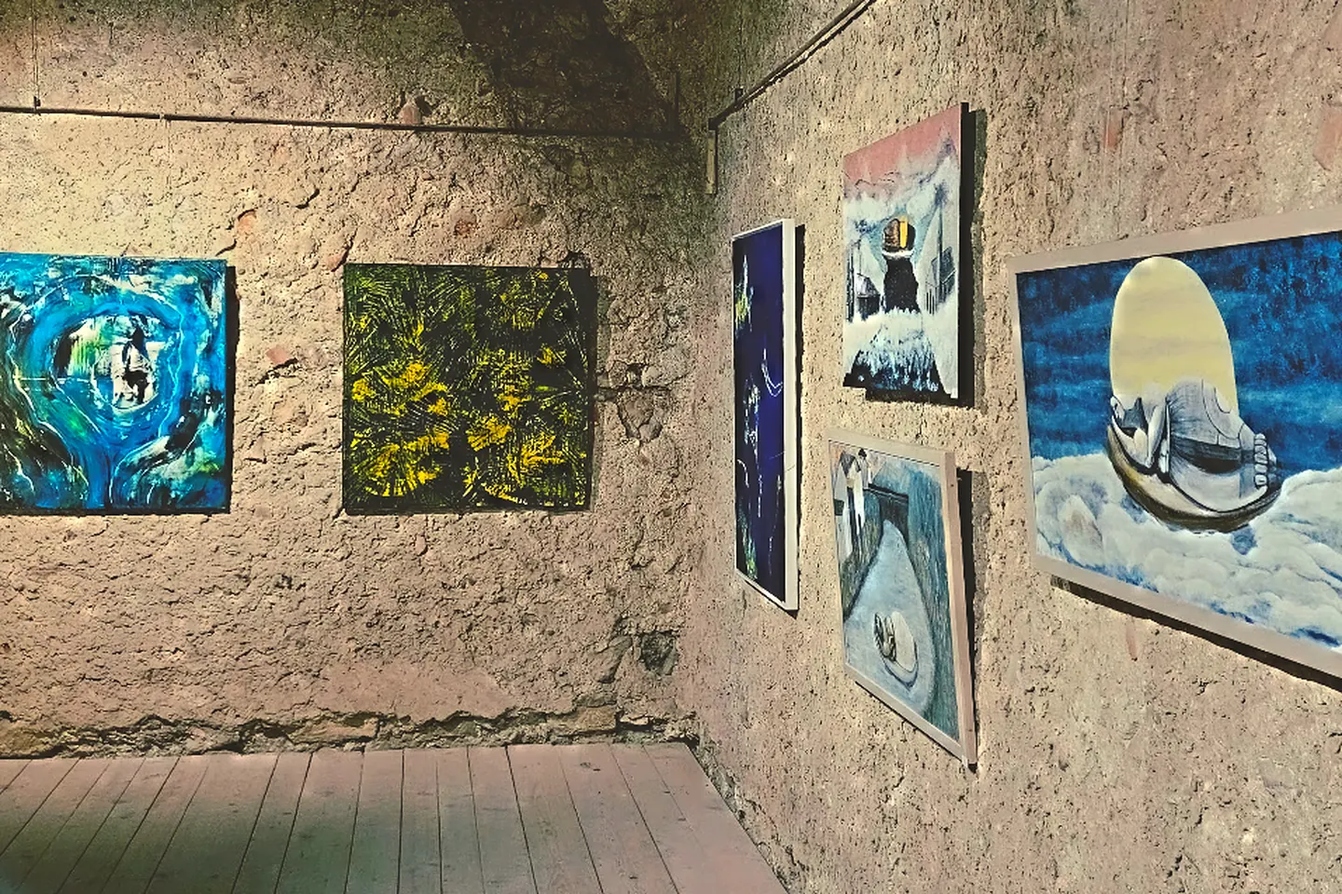
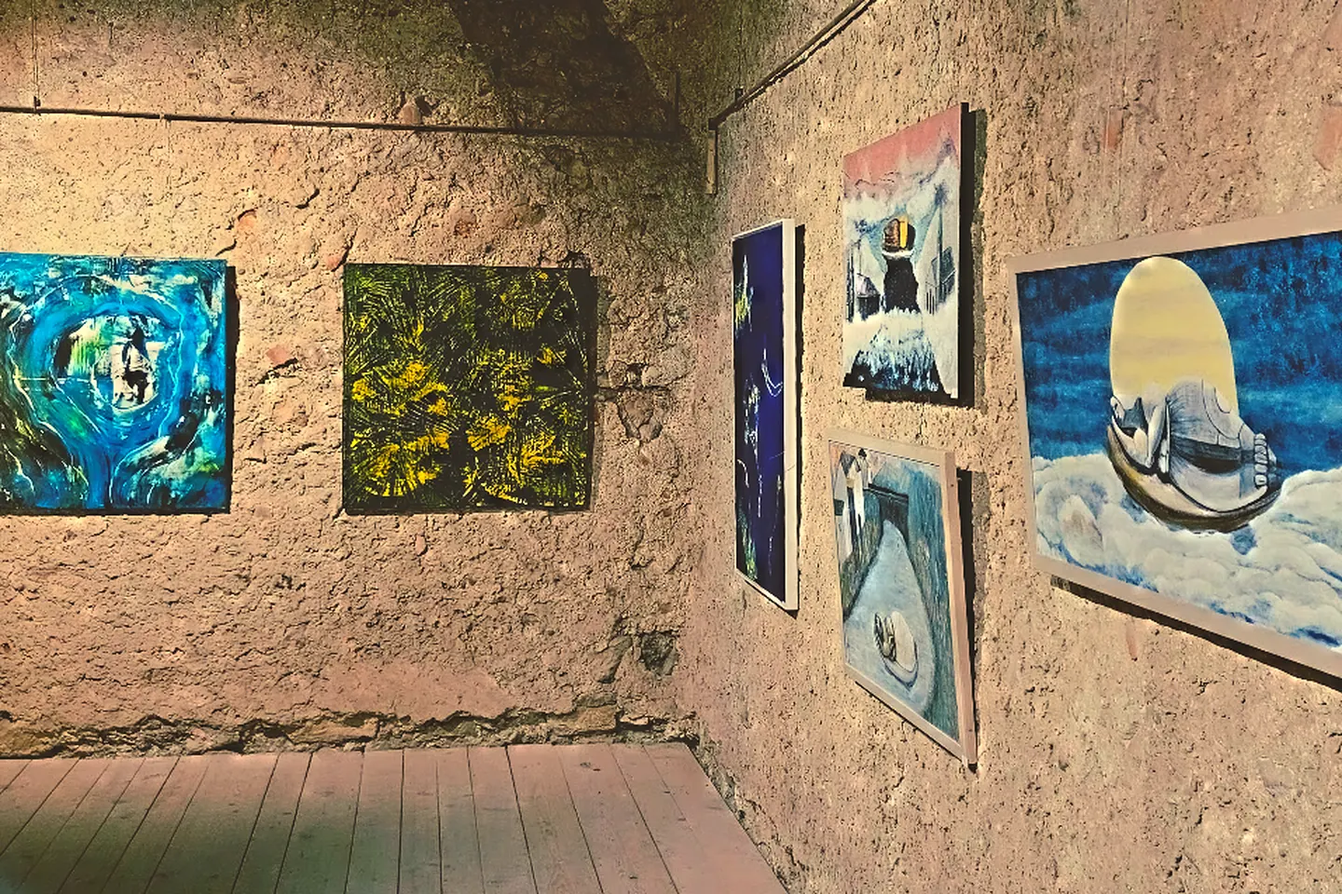
Gamma: Baum warm ohne fallende Blätter, Säulen im Bildrahmen, Foto wärmer
- Baum: Blätter Tannen- über Moosgrün bis Ocker, Blüten Bordeaux bis
  Altrosa (Farben als sRGB angegeben, die Szene rechnet linear), keine
  fallenden Blütenblätter mehr, kleineres Podest
- Giacometti dreht schneller (gut eine halbe Minute pro Umdrehung)
- Kunst flach: nach dem Wechsel aus dem Raum stehen im Bildrahmen noch
  kurz die Säulen (von oben, gleiches Gitter, Deckel in Fotofarbe), dann
  wachsen sie zum Foto zusammen und der Hover beginnt
- Foto wärmer (Rot hinauf, Blau hinunter) und satter, Bilder ?v=4

Claude-Session: https://claude.ai/code/session_01EXrTH1PViZXXwjyHDQJQPg

diff --git a/tools/gamma/index.src.html b/tools/gamma/index.src.html
@@ -1506,11 +1506,12 @@ function figurenBauen(g) {
   };
   /* Auf der obersten Terrasse ein Baum im Raum (Christian, 30. Oktober 2026: dreidimensional, bewegt, farbig blühend; dann «nicht drehen, sondern
      wie im Wind bewegen, dunklere, wärmere Farbtöne»). Der Wind kommt in Böen von einer Seite: der ganze Baum neigt sich, je höher, desto mehr,
-     die Zweige flattern, je weiter aussen, desto mehr. An jeder Spitze zwei Blätter in warmem, dunklem Grün, daneben öffnet sich eine Blüte
-     in Himbeer bis Altrosa, welkt, und ein Blütenblatt fällt langsam auf die Terrassen */
+     die Zweige flattern, je weiter aussen, desto mehr. An jeder Spitze zwei Blätter von Tannen- über Moosgrün bis Ocker, daneben öffnet sich
+     eine Blüte in Bordeaux bis Altrosa und welkt wieder; nichts fällt herab («keine fallenden Pixel») */
   const terrasse = () => {
-    hell = .45; quader(0, 0, 0, 1.3, .1, .7); quader(.12, .1, -.06, 1, .1, .56); quader(.26, .2, -.12, .7, .1, .44);
-    const dreh = new THREE.Group(); gruppeBei([.62, .3, -.34]).add(dreh);
+    // drei flache Stufen unter dem Baum, kleiner als zuerst (Christian, 30. Oktober 2026), mittig unter dem Stamm
+    hell = .45; quader(.17, 0, -.09, .9, .07, .5); quader(.29, .07, -.15, .66, .07, .38); quader(.4, .14, -.205, .44, .07, .27);
+    const dreh = new THREE.Group(); gruppeBei([.62, .21, -.34]).add(dreh);
     const ap = [], ag = [], spitzen = [], d = new THREE.Vector3(), u = new THREE.Vector3(), w = new THREE.Vector3();
     const wachsen = (p, r, l, n, tief) => {
       const e = p.clone().addScaledVector(r, l); ap.push(p.x, p.y, p.z, e.x, e.y, e.z); ag.push(tief / 7, (tief + 1) / 7);
@@ -1536,45 +1537,42 @@ vec3 wind(vec3 p, float w) {
     const aeste = new THREE.LineSegments(ag3, new THREE.ShaderMaterial({ uniforms: uni, transparent: true, depthWrite: false,
       vertexShader: `attribute float gewicht; varying float vw; ${WIND}
 void main() { vw = gewicht; gl_Position = projectionMatrix * modelViewMatrix * vec4(wind(position, gewicht), 1.); }`,
-      fragmentShader: "uniform float a; varying float vw; void main() { gl_FragColor = vec4(mix(vec3(.5, .4, .3), vec3(.36, .27, .2), vw), a); }" }));
-    // Je Spitze eine Blüte (art.y 0), ein Blütenblatt, das fällt, wenn sie welkt (art.y 1), und zwei grüne Blätter etwas daneben (art.y 2);
-    // art.x verschiebt den Kreislauf von elf Sekunden und wählt den Farbton
-    const n = spitzen.length, bp = new Float32Array(n * 12), ba = new Float32Array(n * 8), neben = p => p.clone().add(new THREE.Vector3(zufall() - .5, zufall() - .5, zufall() - .5).multiplyScalar(.09));
+      fragmentShader: "uniform float a; varying float vw; void main() { gl_FragColor = vec4(pow(mix(vec3(.48, .37, .28), vec3(.35, .26, .2), vw), vec3(2.2)), a); }" }));
+    // Je Spitze eine Blüte (art.y 0) und zwei Blätter etwas daneben (art.y 2); art.x verschiebt den Kreislauf von elf Sekunden und wählt den Farbton
+    const n = spitzen.length, bp = new Float32Array(n * 9), ba = new Float32Array(n * 6), neben = p => p.clone().add(new THREE.Vector3(zufall() - .5, zufall() - .5, zufall() - .5).multiplyScalar(.09));
     spitzen.forEach((p, i) => {
-      const ph = zufall();
-      bp.set(p.toArray(), i * 3); bp.set(p.toArray(), (n + i) * 3); bp.set(neben(p).toArray(), (2 * n + i) * 3); bp.set(neben(p).toArray(), (3 * n + i) * 3);
-      ba.set([ph, 0], i * 2); ba.set([ph, 1], (n + i) * 2); ba.set([zufall(), 2], (2 * n + i) * 2); ba.set([zufall(), 2], (3 * n + i) * 2);
+      bp.set(p.toArray(), i * 3); bp.set(neben(p).toArray(), (n + i) * 3); bp.set(neben(p).toArray(), (2 * n + i) * 3);
+      ba.set([zufall(), 0], i * 2); ba.set([zufall(), 2], (n + i) * 2); ba.set([zufall(), 2], (2 * n + i) * 2);
     });
     const bg = new THREE.BufferGeometry(); bg.setAttribute("position", new THREE.Float32BufferAttribute(bp, 3)); bg.setAttribute("art", new THREE.Float32BufferAttribute(ba, 2));
     const blueten = new THREE.Points(bg, new THREE.ShaderMaterial({ uniforms: uni, transparent: true, depthWrite: false,
-      vertexShader: `attribute vec2 art; uniform float hoehe; varying float vu, vf, vd, vk; ${WIND}
+      vertexShader: `attribute vec2 art; uniform float hoehe; varying float vu, vf, vk; ${WIND}
 void main() {
-  float u = fract(zeit / 11. + art.x), s; vec3 p = wind(position, 1.); vu = u; vf = art.y; vd = 1.; vk = fract(art.x * 7.31);
+  float u = fract(zeit / 11. + art.x), s; vec3 p = wind(position, 1.); vu = u; vf = art.y; vk = fract(art.x * 7.31);
   if (art.y > 1.5) s = .08 * (.88 + .12 * sin(zeit * .8 + art.x * 30.));   // Blatt
-  else if (art.y < .5) s = .075 * smoothstep(.04, .3, u) * (1. - smoothstep(.6, .76, u));   // Knospe, offen, welk
-  else { float f = clamp((u - .66) / .34, 0., 1.); p.y -= (position.y + .12) * f * f; p.x += sin(f * 6. + art.x * 20.) * .08 * f; p.z += cos(f * 5. + art.x * 13.) * .06 * f;
-    s = .035 * step(.66, u); vd = 1. - smoothstep(.8, 1., f); }
+  else s = .075 * smoothstep(.04, .3, u) * (1. - smoothstep(.72, .9, u));   // Knospe, offen, welk
   vec4 mv = modelViewMatrix * vec4(p, 1.); gl_PointSize = min(s * projectionMatrix[1][1] * hoehe / -mv.z, 48.); gl_Position = projectionMatrix * mv;
 }`,
-      fragmentShader: `uniform float a; varying float vu, vf, vd, vk;
+      fragmentShader: `uniform float a; varying float vu, vf, vk;
 void main() {
   vec2 c = gl_PointCoord - .5; float r = length(c), al; vec3 col;
   if (vf > 1.5) {
-    // Blatt: eine schmale Spitzellipse, je nach vk anders gedreht, von dunklem Moos- bis Olivgrün, mit hellerer Mittelrippe
+    // Blatt: eine schmale Spitzellipse, je nach vk anders gedreht, von Tannen- über Moosgrün bis Ocker, mit hellerer Mittelrippe
     float w = vk * 6.283; vec2 q = mat2(cos(w), -sin(w), sin(w), cos(w)) * c;
     al = smoothstep(.3, .24, length(q * vec2(1., 2.3)) + .25 * abs(q.x)); if (al < .01) discard;
-    col = mix(vec3(.17, .3, .11), vec3(.44, .5, .17), vk); col = mix(col, col + .1, smoothstep(.04, 0., abs(q.y)));
+    col = mix(mix(vec3(.12, .3, .23), vec3(.29, .35, .14), smoothstep(.2, .75, vk)), vec3(.63, .48, .16), smoothstep(.8, 1., vk));
+    col = mix(col, col + .08, smoothstep(.04, 0., abs(q.y)));
   } else {
-    float rand = vf > .5 ? .3 : .3 + .16 * cos(5. * atan(c.y, c.x));   // fünf Blütenblätter, das fallende Blatt rund
-    al = smoothstep(rand, rand - .1, r) * vd; if (al < .01) discard;
-    // von dunklem Himbeer über warmes Rosa bis Altrosa, zum Rand der Blüte etwas heller, in der Mitte ein Punkt in Bernstein
-    vec3 magenta = vec3(.6, .05, .28), rosa = vec3(.8, .24, .38), hell = vec3(.88, .5, .5);
-    col = mix(mix(magenta, rosa, smoothstep(0., .6, vk)), hell, smoothstep(.75, 1., vk));
-    col = mix(col, hell, smoothstep(.12, .32, r) * .2);
-    if (vf < .5) col = mix(vec3(.88, .58, .2), col, smoothstep(.03, .09, r));
-    col = mix(col, magenta, vf < .5 ? (1. - smoothstep(.04, .3, vu)) * .6 : 0.);   // die Knospe dunkler
+    float rand = .3 + .16 * cos(5. * atan(c.y, c.x));   // fünf Blütenblätter
+    al = smoothstep(rand, rand - .1, r); if (al < .01) discard;
+    // von Bordeaux über Himbeer bis warmes Altrosa, zum Rand der Blüte etwas heller, in der Mitte ein Punkt in Bernstein
+    vec3 bordeaux = vec3(.43, .1, .17), himbeer = vec3(.61, .14, .25), alt = vec3(.76, .48, .42);
+    col = mix(mix(bordeaux, himbeer, smoothstep(0., .6, vk)), alt, smoothstep(.8, 1., vk));
+    col = mix(col, alt, smoothstep(.12, .32, r) * .18);
+    col = mix(vec3(.82, .54, .16), col, smoothstep(.03, .09, r));
+    col = mix(col, bordeaux, (1. - smoothstep(.04, .3, vu)) * .6);   // die Knospe dunkler
   }
-  gl_FragColor = vec4(col * .92, al * a);
+  gl_FragColor = vec4(pow(col, vec3(2.2)), al * a);   // Farben oben als sRGB, die Szene rechnet linear
 }` }));
     dreh.add(aeste, blueten);
     const groesse = new THREE.Vector2();
@@ -1688,7 +1686,7 @@ void main() {
     glied([[.04, .95, 0], [.05, 1.01, 0], [.062, 1.08, 0], [.068, 1.13, 0]], .018, .026);
     const geo = new THREE.BufferGeometry(); geo.setAttribute("position", new THREE.Float32BufferAttribute(P, 3)); geo.setAttribute("color", new THREE.Float32BufferAttribute(C, 3));
     dreh.add(new THREE.LineSegments(geo, new THREE.LineBasicMaterial({ vertexColors: true, transparent: true, depthWrite: false })));
-    bahn.flackern.push(sek => { dreh.rotation.y = sek * .12; });   // eine Umdrehung in knapp einer Minute
+    bahn.flackern.push(sek => { dreh.rotation.y = sek * .2; });   // eine Umdrehung in gut einer halben Minute
   };
   /* Angebot: ein Tisch mit Stühlen, zwei Wände, Kisten mit Massen */
   const tisch = () => {
@@ -2950,7 +2948,7 @@ if (web && "IntersectionObserver" in window) new IntersectionObserver(e => { if 
    Eine einzige weiche Fläche zeigt das Foto: in der Mitte ganz, zum Rand hin verläuft es und wird blasser, vom Rauschen leicht unregelmässig.
    Flach folgt sie dem Zeiger oder dem Finger; sonst wandert sie langsam. Im Raum wandert sie auf derselben Bahn über die Skizze auf dem Band
    und hebt das Foto als sanften Hügel an; beim Wechsel in die Fläche steht sie, wo sie im Raum war */
-const KUNST_FOTO = "{{BILD}}gamma/bilder/kunst-foto.webp?v=3", KUNST_LINIEN = "{{BILD}}gamma/bilder/kunst-linien.webp?v=3", KUNST_ZUG = 3.6;
+const KUNST_FOTO = "{{BILD}}gamma/bilder/kunst-foto.webp?v=4", KUNST_LINIEN = "{{BILD}}gamma/bilder/kunst-linien.webp?v=4", KUNST_ZUG = 3.6;
 let kunstBilder = null;
 function kunstLaden() {
   // Fehlt ein Bild (etwa weil die Seite während des Hochladens geöffnet wurde), wird es bis zu dreimal neu geholt; wer auf «load» wartet, bekommt es dann trotzdem
@@ -3000,7 +2998,7 @@ const kunst = (() => {
   return { k, bild, cv: bild.querySelector("canvas"), buehne: k.querySelector(".buehne"), hinweis: k.querySelector(".kunst-hinweis"), fokus: parseFloat(bild.dataset.fokus) || .5,
     format: parseFloat(bild.dataset.format) || 1, rahmen: (bild.dataset.rahmen || ".5 .5 .1 .1").split(" ").map(Number),
     felder: [...k.querySelectorAll(".feld")], inhalte: [...k.querySelectorAll(".fi")], gl: null, sichtbar: false, t0: null, raumZug: 0, zug: 0, licht: null, zeiger: null, tipp: null,
-    wechselAb: 0, rahmenAb: 0, rahmenSeit: 0, rm: 0 };
+    wechselAb: 0, rahmenAb: 0, rahmenSeit: 0, rm: 0, sl: 0 };
 })();
 if (kunst) {
   kunst.stopp = () => {}; felderVerbinden(kunst);
@@ -3025,13 +3023,32 @@ function kunstGL() {
   };
   // Bild: Skizze, darüber das Foto, so weit die Spur reicht; ihr Rand franst langsam ziehend aus. Die Sättigung ist frisch hoch, alt gering, und atmet
   const pr = programm(`precision highp float; varying vec2 v;
-uniform sampler2D foto, linien, maske; uniform vec4 aus; uniform vec2 seite; uniform float zeit, zug; uniform vec3 grund, tinte;
+uniform sampler2D foto, linien, maske; uniform vec4 aus; uniform vec2 seite; uniform float zeit, zug, sl; uniform vec3 grund, tinte;
 ${KUNST_GLSL}
 void main() {
   vec2 q = v * seite; vec4 m = texture2D(maske, v); float r = kRahmen(v);
   float auf = mix(smoothstep(.2, .62, m.r + (kF(q * 6. + vec2(zeit * .05, -zeit * .04)) - .47) * .5), r, rm);
   float satt = mix(clamp(.12 + 1.1 * m.g + .6 * (kF(q * 1.4 - zeit * .06) - .47), 0., 1.18), 1., rm * r);
-  gl_FragColor = vec4(kFarbe(foto, linien, aus.xy + v * aus.zw, q, auf, satt, zug, zeit, grund, tinte), 1.);
+  vec3 c = kFarbe(foto, linien, aus.xy + v * aus.zw, q, auf, satt, zug, zeit, grund, tinte);
+  if (sl > .001 && r * rm > .001) {
+    // Eben aus dem Raum: im Bildrahmen stehen noch kurz die Säulen, von oben gesehen, im selben Gitter wie im Raum (42 je Reihe, Reihen versetzt).
+    // Jeder Deckel in der Farbe des Fotos an seiner Mitte, gewölbt, mit Glanz, dazwischen Schwarz; dann wachsen die Deckel zusammen und es bleibt das Foto
+    float SP = 42., RE = max(4., floor(SP / seite.x / .866 + .5)), d = 9.; vec2 z = v;
+    for (int j = -1; j <= 1; j++) {
+      float rr = floor(v.y * RE) + float(j), off = mod(rr, 2.) > .5 ? .75 : .25;
+      vec2 mm = vec2((floor(v.x * SP - off + .5) + off) / SP, (rr + .5) / RE);
+      float dd = length((v - mm) * seite); if (dd < d) { d = dd; z = mm; }
+    }
+    vec2 o = (v - z) * seite / (seite.x / SP * mix(.62, .46, sl));
+    float scheibe = smoothstep(1., .88, length(o)), fl = smoothstep(.3, .72, kFluss(z * seite, zeit));
+    vec3 fc = texture2D(foto, aus.xy + z * aus.zw).rgb, fp = texture2D(foto, aus.xy + v * aus.zw).rgb;
+    vec3 n = normalize(vec3(o * .9, 1.)), L = normalize(vec3(-.35, -.45, 1.));
+    float dif = max(dot(n, L), 0.), glanz = pow(max(dot(reflect(vec3(0., 0., -1.), n), L), 0.), 40.) * .55;
+    vec3 s = mix(fp, fc * (.62 + .38 * dif) * (.8 + .2 * fl) + glanz, sl);
+    s = mix(vec3(.02), s, mix(1., scheibe, sl));
+    c = mix(c, s, r * rm);
+  }
+  gl_FragColor = vec4(c, 1.);
 }`);
   // Spur: r wie weit das Foto steht (verblasst in einigen Sekunden), g wie frisch (klingt rasch ab). Sie wird langsam entlang eines Wirbelfelds
   // verschoben und verläuft ein wenig: so kriecht sie. Das Licht (Zeiger, Tippen oder ruhige Bahn) legt jedes Bild neu nach; beim Wechsel aus dem Raum der Bildrahmen
@@ -3052,7 +3069,7 @@ void main() {
   gl.useProgram(pr);
   const puffer = gl.createBuffer(); gl.bindBuffer(gl.ARRAY_BUFFER, puffer); gl.bufferData(gl.ARRAY_BUFFER, new Float32Array([-1, -1, 1, -1, -1, 1, 1, 1]), gl.STATIC_DRAW);
   gl.enableVertexAttribArray(0); gl.vertexAttribPointer(0, 2, gl.FLOAT, false, 0, 0);
-  const U = {}; ["foto", "linien", "maske", "aus", "seite", "zeit", "zug", "grund", "tinte", "rahmen", "rm"].forEach(n => { U[n] = gl.getUniformLocation(pr, n); });
+  const U = {}; ["foto", "linien", "maske", "aus", "seite", "zeit", "zug", "grund", "tinte", "rahmen", "rm", "sl"].forEach(n => { U[n] = gl.getUniformLocation(pr, n); });
   const US = {}; ["vor", "px", "seite", "licht", "zeit", "k", "rahmen", "rm"].forEach(n => { US[n] = gl.getUniformLocation(prS, n); });
   const textur = (einheit, roh) => {
     const t = gl.createTexture(); gl.activeTexture(gl.TEXTURE0 + einheit); gl.bindTexture(gl.TEXTURE_2D, t);
@@ -3107,16 +3124,17 @@ function kunstLaufBild(zeit, dt) {
     K.t0 = zeit - (ruhig ? KUNST_ZUG + 9 : K.raumZug * KUNST_ZUG) * 1000;
     K.licht = [...kunstLicht(zeit / 1000), K.raumZug >= 1 ? 1 : 0];
   }
-  // Eben aus dem Raum gewechselt: das Foto steht zuerst genau im Bildrahmen, nach einer halben Sekunde löst sich der Rahmen in die weiche Fläche auf, die weiterwandert
+  // Eben aus dem Raum gewechselt: im Bildrahmen stehen zuerst noch die Säulen (Christian, 30. Oktober 2026: den Effekt in der Fläche kurz fortsetzen),
+  // nach 1,2 s wachsen sie zum Foto zusammen, ab 2,3 s löst sich der Rahmen in die weiche Fläche auf, die weiterwandert
   if (K.rahmenAb) { K.rahmenAb = 0; K.rahmenSeit = zeit; K.rm = 1; K.licht = kunstRahmenLicht(kunstRahmen(kunstAusschnitt(r.width / r.height, K.fokus, K.format)), r.width / r.height); }
   const seitRahmen = K.rahmenSeit ? (zeit - K.rahmenSeit) / 1000 : 99;
-  K.rm = 1 - eio(klemm((seitRahmen - .5) / 1.4));
+  K.sl = 1 - eio(klemm((seitRahmen - 1.2) / .9)); K.rm = 1 - eio(klemm((seitRahmen - 2.3) / 1.4));
   const T = (zeit - K.t0) / 1000, L = K.licht, tippt = K.tipp && zeit - K.tipp.t < 4500;
   // Ziel der Fläche: der Zeiger, sonst die Stelle, die getippt wurde, sonst ihre ruhige Bahn. Solange die Skizze entsteht, ist sie aus
   const ziel = K.zeiger ? [K.zeiger.x, K.zeiger.y, .24] : tippt ? [K.tipp.x, K.tipp.y, .32] : kunstLicht(zeit / 1000);
-  const an = ruhig ? (K.zeiger || tippt ? 1 : 0) : Math.max(weich(KUNST_ZUG - .6, KUNST_ZUG + 1.2, T), seitRahmen < 3 ? 1 : 0);
+  const an = ruhig ? (K.zeiger || tippt ? 1 : 0) : Math.max(weich(KUNST_ZUG - .6, KUNST_ZUG + 1.2, T), seitRahmen < 3.8 ? 1 : 0);
   // kriechend: die Fläche folgt dem Zeiger mit Verzug, die Spur dahinter bleibt einige Sekunden
-  const k = 1 - Math.exp(-dt * (K.zeiger ? 2.6 : tippt ? 1.6 : seitRahmen < .5 ? 0 : .9));
+  const k = 1 - Math.exp(-dt * (K.zeiger ? 2.6 : tippt ? 1.6 : seitRahmen < 2.3 ? 0 : .9));
   for (let i = 0; i < 3; i++) L[i] += (ziel[i] - L[i]) * k;
   L[3] += (an - L[3]) * (1 - Math.exp(-dt * 2.5));
   K.zug = ruhig ? 1.02 : 1.02 * eio(klemm(T / KUNST_ZUG));
@@ -3137,7 +3155,7 @@ function kunstZeichnen(zeit, dt = 1 / 60) {
   gl.uniform4f(U.aus, a[0], a[1], a[2], a[3]); gl.uniform2f(U.seite, w / h, 1);
   gl.uniform1f(U.zeit, z); gl.uniform1f(U.zug, K.zug || 0);
   gl.uniform3fv(U.grund, K.gl.grund); gl.uniform3f(U.tinte, 1, 1, 1);
-  gl.uniform4f(U.rahmen, R[0], R[1], R[2], R[3]); gl.uniform1f(U.rm, K.rm || 0);
+  gl.uniform4f(U.rahmen, R[0], R[1], R[2], R[3]); gl.uniform1f(U.rm, K.rm || 0); gl.uniform1f(U.sl, K.sl || 0);
   gl.drawArrays(gl.TRIANGLE_STRIP, 0, 4);
 }
 if ("IntersectionObserver" in window) {

diff --git a/gamma/index.html b/gamma/index.html
@@ -1515,11 +1515,12 @@ function figurenBauen(g) {
   };
   /* Auf der obersten Terrasse ein Baum im Raum (Christian, 30. Oktober 2026: dreidimensional, bewegt, farbig blühend; dann «nicht drehen, sondern
      wie im Wind bewegen, dunklere, wärmere Farbtöne»). Der Wind kommt in Böen von einer Seite: der ganze Baum neigt sich, je höher, desto mehr,
-     die Zweige flattern, je weiter aussen, desto mehr. An jeder Spitze zwei Blätter in warmem, dunklem Grün, daneben öffnet sich eine Blüte
-     in Himbeer bis Altrosa, welkt, und ein Blütenblatt fällt langsam auf die Terrassen */
+     die Zweige flattern, je weiter aussen, desto mehr. An jeder Spitze zwei Blätter von Tannen- über Moosgrün bis Ocker, daneben öffnet sich
+     eine Blüte in Bordeaux bis Altrosa und welkt wieder; nichts fällt herab («keine fallenden Pixel») */
   const terrasse = () => {
-    hell = .45; quader(0, 0, 0, 1.3, .1, .7); quader(.12, .1, -.06, 1, .1, .56); quader(.26, .2, -.12, .7, .1, .44);
-    const dreh = new THREE.Group(); gruppeBei([.62, .3, -.34]).add(dreh);
+    // drei flache Stufen unter dem Baum, kleiner als zuerst (Christian, 30. Oktober 2026), mittig unter dem Stamm
+    hell = .45; quader(.17, 0, -.09, .9, .07, .5); quader(.29, .07, -.15, .66, .07, .38); quader(.4, .14, -.205, .44, .07, .27);
+    const dreh = new THREE.Group(); gruppeBei([.62, .21, -.34]).add(dreh);
     const ap = [], ag = [], spitzen = [], d = new THREE.Vector3(), u = new THREE.Vector3(), w = new THREE.Vector3();
     const wachsen = (p, r, l, n, tief) => {
       const e = p.clone().addScaledVector(r, l); ap.push(p.x, p.y, p.z, e.x, e.y, e.z); ag.push(tief / 7, (tief + 1) / 7);
@@ -1545,45 +1546,42 @@ vec3 wind(vec3 p, float w) {
     const aeste = new THREE.LineSegments(ag3, new THREE.ShaderMaterial({ uniforms: uni, transparent: true, depthWrite: false,
       vertexShader: `attribute float gewicht; varying float vw; ${WIND}
 void main() { vw = gewicht; gl_Position = projectionMatrix * modelViewMatrix * vec4(wind(position, gewicht), 1.); }`,
-      fragmentShader: "uniform float a; varying float vw; void main() { gl_FragColor = vec4(mix(vec3(.5, .4, .3), vec3(.36, .27, .2), vw), a); }" }));
-    // Je Spitze eine Blüte (art.y 0), ein Blütenblatt, das fällt, wenn sie welkt (art.y 1), und zwei grüne Blätter etwas daneben (art.y 2);
-    // art.x verschiebt den Kreislauf von elf Sekunden und wählt den Farbton
-    const n = spitzen.length, bp = new Float32Array(n * 12), ba = new Float32Array(n * 8), neben = p => p.clone().add(new THREE.Vector3(zufall() - .5, zufall() - .5, zufall() - .5).multiplyScalar(.09));
+      fragmentShader: "uniform float a; varying float vw; void main() { gl_FragColor = vec4(pow(mix(vec3(.48, .37, .28), vec3(.35, .26, .2), vw), vec3(2.2)), a); }" }));
+    // Je Spitze eine Blüte (art.y 0) und zwei Blätter etwas daneben (art.y 2); art.x verschiebt den Kreislauf von elf Sekunden und wählt den Farbton
+    const n = spitzen.length, bp = new Float32Array(n * 9), ba = new Float32Array(n * 6), neben = p => p.clone().add(new THREE.Vector3(zufall() - .5, zufall() - .5, zufall() - .5).multiplyScalar(.09));
     spitzen.forEach((p, i) => {
-      const ph = zufall();
-      bp.set(p.toArray(), i * 3); bp.set(p.toArray(), (n + i) * 3); bp.set(neben(p).toArray(), (2 * n + i) * 3); bp.set(neben(p).toArray(), (3 * n + i) * 3);
-      ba.set([ph, 0], i * 2); ba.set([ph, 1], (n + i) * 2); ba.set([zufall(), 2], (2 * n + i) * 2); ba.set([zufall(), 2], (3 * n + i) * 2);
+      bp.set(p.toArray(), i * 3); bp.set(neben(p).toArray(), (n + i) * 3); bp.set(neben(p).toArray(), (2 * n + i) * 3);
+      ba.set([zufall(), 0], i * 2); ba.set([zufall(), 2], (n + i) * 2); ba.set([zufall(), 2], (2 * n + i) * 2);
     });
     const bg = new THREE.BufferGeometry(); bg.setAttribute("position", new THREE.Float32BufferAttribute(bp, 3)); bg.setAttribute("art", new THREE.Float32BufferAttribute(ba, 2));
     const blueten = new THREE.Points(bg, new THREE.ShaderMaterial({ uniforms: uni, transparent: true, depthWrite: false,
-      vertexShader: `attribute vec2 art; uniform float hoehe; varying float vu, vf, vd, vk; ${WIND}
+      vertexShader: `attribute vec2 art; uniform float hoehe; varying float vu, vf, vk; ${WIND}
 void main() {
-  float u = fract(zeit / 11. + art.x), s; vec3 p = wind(position, 1.); vu = u; vf = art.y; vd = 1.; vk = fract(art.x * 7.31);
+  float u = fract(zeit / 11. + art.x), s; vec3 p = wind(position, 1.); vu = u; vf = art.y; vk = fract(art.x * 7.31);
   if (art.y > 1.5) s = .08 * (.88 + .12 * sin(zeit * .8 + art.x * 30.));   // Blatt
-  else if (art.y < .5) s = .075 * smoothstep(.04, .3, u) * (1. - smoothstep(.6, .76, u));   // Knospe, offen, welk
-  else { float f = clamp((u - .66) / .34, 0., 1.); p.y -= (position.y + .12) * f * f; p.x += sin(f * 6. + art.x * 20.) * .08 * f; p.z += cos(f * 5. + art.x * 13.) * .06 * f;
-    s = .035 * step(.66, u); vd = 1. - smoothstep(.8, 1., f); }
+  else s = .075 * smoothstep(.04, .3, u) * (1. - smoothstep(.72, .9, u));   // Knospe, offen, welk
   vec4 mv = modelViewMatrix * vec4(p, 1.); gl_PointSize = min(s * projectionMatrix[1][1] * hoehe / -mv.z, 48.); gl_Position = projectionMatrix * mv;
 }`,
-      fragmentShader: `uniform float a; varying float vu, vf, vd, vk;
+      fragmentShader: `uniform float a; varying float vu, vf, vk;
 void main() {
   vec2 c = gl_PointCoord - .5; float r = length(c), al; vec3 col;
   if (vf > 1.5) {
-    // Blatt: eine schmale Spitzellipse, je nach vk anders gedreht, von dunklem Moos- bis Olivgrün, mit hellerer Mittelrippe
+    // Blatt: eine schmale Spitzellipse, je nach vk anders gedreht, von Tannen- über Moosgrün bis Ocker, mit hellerer Mittelrippe
     float w = vk * 6.283; vec2 q = mat2(cos(w), -sin(w), sin(w), cos(w)) * c;
     al = smoothstep(.3, .24, length(q * vec2(1., 2.3)) + .25 * abs(q.x)); if (al < .01) discard;
-    col = mix(vec3(.17, .3, .11), vec3(.44, .5, .17), vk); col = mix(col, col + .1, smoothstep(.04, 0., abs(q.y)));
+    col = mix(mix(vec3(.12, .3, .23), vec3(.29, .35, .14), smoothstep(.2, .75, vk)), vec3(.63, .48, .16), smoothstep(.8, 1., vk));
+    col = mix(col, col + .08, smoothstep(.04, 0., abs(q.y)));
   } else {
-    float rand = vf > .5 ? .3 : .3 + .16 * cos(5. * atan(c.y, c.x));   // fünf Blütenblätter, das fallende Blatt rund
-    al = smoothstep(rand, rand - .1, r) * vd; if (al < .01) discard;
-    // von dunklem Himbeer über warmes Rosa bis Altrosa, zum Rand der Blüte etwas heller, in der Mitte ein Punkt in Bernstein
-    vec3 magenta = vec3(.6, .05, .28), rosa = vec3(.8, .24, .38), hell = vec3(.88, .5, .5);
-    col = mix(mix(magenta, rosa, smoothstep(0., .6, vk)), hell, smoothstep(.75, 1., vk));
-    col = mix(col, hell, smoothstep(.12, .32, r) * .2);
-    if (vf < .5) col = mix(vec3(.88, .58, .2), col, smoothstep(.03, .09, r));
-    col = mix(col, magenta, vf < .5 ? (1. - smoothstep(.04, .3, vu)) * .6 : 0.);   // die Knospe dunkler
+    float rand = .3 + .16 * cos(5. * atan(c.y, c.x));   // fünf Blütenblätter
+    al = smoothstep(rand, rand - .1, r); if (al < .01) discard;
+    // von Bordeaux über Himbeer bis warmes Altrosa, zum Rand der Blüte etwas heller, in der Mitte ein Punkt in Bernstein
+    vec3 bordeaux = vec3(.43, .1, .17), himbeer = vec3(.61, .14, .25), alt = vec3(.76, .48, .42);
+    col = mix(mix(bordeaux, himbeer, smoothstep(0., .6, vk)), alt, smoothstep(.8, 1., vk));
+    col = mix(col, alt, smoothstep(.12, .32, r) * .18);
+    col = mix(vec3(.82, .54, .16), col, smoothstep(.03, .09, r));
+    col = mix(col, bordeaux, (1. - smoothstep(.04, .3, vu)) * .6);   // die Knospe dunkler
   }
-  gl_FragColor = vec4(col * .92, al * a);
+  gl_FragColor = vec4(pow(col, vec3(2.2)), al * a);   // Farben oben als sRGB, die Szene rechnet linear
 }` }));
     dreh.add(aeste, blueten);
     const groesse = new THREE.Vector2();
@@ -1697,7 +1695,7 @@ void main() {
     glied([[.04, .95, 0], [.05, 1.01, 0], [.062, 1.08, 0], [.068, 1.13, 0]], .018, .026);
     const geo = new THREE.BufferGeometry(); geo.setAttribute("position", new THREE.Float32BufferAttribute(P, 3)); geo.setAttribute("color", new THREE.Float32BufferAttribute(C, 3));
     dreh.add(new THREE.LineSegments(geo, new THREE.LineBasicMaterial({ vertexColors: true, transparent: true, depthWrite: false })));
-    bahn.flackern.push(sek => { dreh.rotation.y = sek * .12; });   // eine Umdrehung in knapp einer Minute
+    bahn.flackern.push(sek => { dreh.rotation.y = sek * .2; });   // eine Umdrehung in gut einer halben Minute
   };
   /* Angebot: ein Tisch mit Stühlen, zwei Wände, Kisten mit Massen */
   const tisch = () => {
@@ -2959,7 +2957,7 @@ if (web && "IntersectionObserver" in window) new IntersectionObserver(e => { if 
    Eine einzige weiche Fläche zeigt das Foto: in der Mitte ganz, zum Rand hin verläuft es und wird blasser, vom Rauschen leicht unregelmässig.
    Flach folgt sie dem Zeiger oder dem Finger; sonst wandert sie langsam. Im Raum wandert sie auf derselben Bahn über die Skizze auf dem Band
    und hebt das Foto als sanften Hügel an; beim Wechsel in die Fläche steht sie, wo sie im Raum war */
-const KUNST_FOTO = "../gamma/bilder/kunst-foto.webp?v=3", KUNST_LINIEN = "../gamma/bilder/kunst-linien.webp?v=3", KUNST_ZUG = 3.6;
+const KUNST_FOTO = "../gamma/bilder/kunst-foto.webp?v=4", KUNST_LINIEN = "../gamma/bilder/kunst-linien.webp?v=4", KUNST_ZUG = 3.6;
 let kunstBilder = null;
 function kunstLaden() {
   // Fehlt ein Bild (etwa weil die Seite während des Hochladens geöffnet wurde), wird es bis zu dreimal neu geholt; wer auf «load» wartet, bekommt es dann trotzdem
@@ -3009,7 +3007,7 @@ const kunst = (() => {
   return { k, bild, cv: bild.querySelector("canvas"), buehne: k.querySelector(".buehne"), hinweis: k.querySelector(".kunst-hinweis"), fokus: parseFloat(bild.dataset.fokus) || .5,
     format: parseFloat(bild.dataset.format) || 1, rahmen: (bild.dataset.rahmen || ".5 .5 .1 .1").split(" ").map(Number),
     felder: [...k.querySelectorAll(".feld")], inhalte: [...k.querySelectorAll(".fi")], gl: null, sichtbar: false, t0: null, raumZug: 0, zug: 0, licht: null, zeiger: null, tipp: null,
-    wechselAb: 0, rahmenAb: 0, rahmenSeit: 0, rm: 0 };
+    wechselAb: 0, rahmenAb: 0, rahmenSeit: 0, rm: 0, sl: 0 };
 })();
 if (kunst) {
   kunst.stopp = () => {}; felderVerbinden(kunst);
@@ -3034,13 +3032,32 @@ function kunstGL() {
   };
   // Bild: Skizze, darüber das Foto, so weit die Spur reicht; ihr Rand franst langsam ziehend aus. Die Sättigung ist frisch hoch, alt gering, und atmet
   const pr = programm(`precision highp float; varying vec2 v;
-uniform sampler2D foto, linien, maske; uniform vec4 aus; uniform vec2 seite; uniform float zeit, zug; uniform vec3 grund, tinte;
+uniform sampler2D foto, linien, maske; uniform vec4 aus; uniform vec2 seite; uniform float zeit, zug, sl; uniform vec3 grund, tinte;
 ${KUNST_GLSL}
 void main() {
   vec2 q = v * seite; vec4 m = texture2D(maske, v); float r = kRahmen(v);
   float auf = mix(smoothstep(.2, .62, m.r + (kF(q * 6. + vec2(zeit * .05, -zeit * .04)) - .47) * .5), r, rm);
   float satt = mix(clamp(.12 + 1.1 * m.g + .6 * (kF(q * 1.4 - zeit * .06) - .47), 0., 1.18), 1., rm * r);
-  gl_FragColor = vec4(kFarbe(foto, linien, aus.xy + v * aus.zw, q, auf, satt, zug, zeit, grund, tinte), 1.);
+  vec3 c = kFarbe(foto, linien, aus.xy + v * aus.zw, q, auf, satt, zug, zeit, grund, tinte);
+  if (sl > .001 && r * rm > .001) {
+    // Eben aus dem Raum: im Bildrahmen stehen noch kurz die Säulen, von oben gesehen, im selben Gitter wie im Raum (42 je Reihe, Reihen versetzt).
+    // Jeder Deckel in der Farbe des Fotos an seiner Mitte, gewölbt, mit Glanz, dazwischen Schwarz; dann wachsen die Deckel zusammen und es bleibt das Foto
+    float SP = 42., RE = max(4., floor(SP / seite.x / .866 + .5)), d = 9.; vec2 z = v;
+    for (int j = -1; j <= 1; j++) {
+      float rr = floor(v.y * RE) + float(j), off = mod(rr, 2.) > .5 ? .75 : .25;
+      vec2 mm = vec2((floor(v.x * SP - off + .5) + off) / SP, (rr + .5) / RE);
+      float dd = length((v - mm) * seite); if (dd < d) { d = dd; z = mm; }
+    }
+    vec2 o = (v - z) * seite / (seite.x / SP * mix(.62, .46, sl));
+    float scheibe = smoothstep(1., .88, length(o)), fl = smoothstep(.3, .72, kFluss(z * seite, zeit));
+    vec3 fc = texture2D(foto, aus.xy + z * aus.zw).rgb, fp = texture2D(foto, aus.xy + v * aus.zw).rgb;
+    vec3 n = normalize(vec3(o * .9, 1.)), L = normalize(vec3(-.35, -.45, 1.));
+    float dif = max(dot(n, L), 0.), glanz = pow(max(dot(reflect(vec3(0., 0., -1.), n), L), 0.), 40.) * .55;
+    vec3 s = mix(fp, fc * (.62 + .38 * dif) * (.8 + .2 * fl) + glanz, sl);
+    s = mix(vec3(.02), s, mix(1., scheibe, sl));
+    c = mix(c, s, r * rm);
+  }
+  gl_FragColor = vec4(c, 1.);
 }`);
   // Spur: r wie weit das Foto steht (verblasst in einigen Sekunden), g wie frisch (klingt rasch ab). Sie wird langsam entlang eines Wirbelfelds
   // verschoben und verläuft ein wenig: so kriecht sie. Das Licht (Zeiger, Tippen oder ruhige Bahn) legt jedes Bild neu nach; beim Wechsel aus dem Raum der Bildrahmen
@@ -3061,7 +3078,7 @@ void main() {
   gl.useProgram(pr);
   const puffer = gl.createBuffer(); gl.bindBuffer(gl.ARRAY_BUFFER, puffer); gl.bufferData(gl.ARRAY_BUFFER, new Float32Array([-1, -1, 1, -1, -1, 1, 1, 1]), gl.STATIC_DRAW);
   gl.enableVertexAttribArray(0); gl.vertexAttribPointer(0, 2, gl.FLOAT, false, 0, 0);
-  const U = {}; ["foto", "linien", "maske", "aus", "seite", "zeit", "zug", "grund", "tinte", "rahmen", "rm"].forEach(n => { U[n] = gl.getUniformLocation(pr, n); });
+  const U = {}; ["foto", "linien", "maske", "aus", "seite", "zeit", "zug", "grund", "tinte", "rahmen", "rm", "sl"].forEach(n => { U[n] = gl.getUniformLocation(pr, n); });
   const US = {}; ["vor", "px", "seite", "licht", "zeit", "k", "rahmen", "rm"].forEach(n => { US[n] = gl.getUniformLocation(prS, n); });
   const textur = (einheit, roh) => {
     const t = gl.createTexture(); gl.activeTexture(gl.TEXTURE0 + einheit); gl.bindTexture(gl.TEXTURE_2D, t);
@@ -3116,16 +3133,17 @@ function kunstLaufBild(zeit, dt) {
     K.t0 = zeit - (ruhig ? KUNST_ZUG + 9 : K.raumZug * KUNST_ZUG) * 1000;
     K.licht = [...kunstLicht(zeit / 1000), K.raumZug >= 1 ? 1 : 0];
   }
-  // Eben aus dem Raum gewechselt: das Foto steht zuerst genau im Bildrahmen, nach einer halben Sekunde löst sich der Rahmen in die weiche Fläche auf, die weiterwandert
+  // Eben aus dem Raum gewechselt: im Bildrahmen stehen zuerst noch die Säulen (Christian, 30. Oktober 2026: den Effekt in der Fläche kurz fortsetzen),
+  // nach 1,2 s wachsen sie zum Foto zusammen, ab 2,3 s löst sich der Rahmen in die weiche Fläche auf, die weiterwandert
   if (K.rahmenAb) { K.rahmenAb = 0; K.rahmenSeit = zeit; K.rm = 1; K.licht = kunstRahmenLicht(kunstRahmen(kunstAusschnitt(r.width / r.height, K.fokus, K.format)), r.width / r.height); }
   const seitRahmen = K.rahmenSeit ? (zeit - K.rahmenSeit) / 1000 : 99;
-  K.rm = 1 - eio(klemm((seitRahmen - .5) / 1.4));
+  K.sl = 1 - eio(klemm((seitRahmen - 1.2) / .9)); K.rm = 1 - eio(klemm((seitRahmen - 2.3) / 1.4));
   const T = (zeit - K.t0) / 1000, L = K.licht, tippt = K.tipp && zeit - K.tipp.t < 4500;
   // Ziel der Fläche: der Zeiger, sonst die Stelle, die getippt wurde, sonst ihre ruhige Bahn. Solange die Skizze entsteht, ist sie aus
   const ziel = K.zeiger ? [K.zeiger.x, K.zeiger.y, .24] : tippt ? [K.tipp.x, K.tipp.y, .32] : kunstLicht(zeit / 1000);
-  const an = ruhig ? (K.zeiger || tippt ? 1 : 0) : Math.max(weich(KUNST_ZUG - .6, KUNST_ZUG + 1.2, T), seitRahmen < 3 ? 1 : 0);
+  const an = ruhig ? (K.zeiger || tippt ? 1 : 0) : Math.max(weich(KUNST_ZUG - .6, KUNST_ZUG + 1.2, T), seitRahmen < 3.8 ? 1 : 0);
   // kriechend: die Fläche folgt dem Zeiger mit Verzug, die Spur dahinter bleibt einige Sekunden
-  const k = 1 - Math.exp(-dt * (K.zeiger ? 2.6 : tippt ? 1.6 : seitRahmen < .5 ? 0 : .9));
+  const k = 1 - Math.exp(-dt * (K.zeiger ? 2.6 : tippt ? 1.6 : seitRahmen < 2.3 ? 0 : .9));
   for (let i = 0; i < 3; i++) L[i] += (ziel[i] - L[i]) * k;
   L[3] += (an - L[3]) * (1 - Math.exp(-dt * 2.5));
   K.zug = ruhig ? 1.02 : 1.02 * eio(klemm(T / KUNST_ZUG));
@@ -3146,7 +3164,7 @@ function kunstZeichnen(zeit, dt = 1 / 60) {
   gl.uniform4f(U.aus, a[0], a[1], a[2], a[3]); gl.uniform2f(U.seite, w / h, 1);
   gl.uniform1f(U.zeit, z); gl.uniform1f(U.zug, K.zug || 0);
   gl.uniform3fv(U.grund, K.gl.grund); gl.uniform3f(U.tinte, 1, 1, 1);
-  gl.uniform4f(U.rahmen, R[0], R[1], R[2], R[3]); gl.uniform1f(U.rm, K.rm || 0);
+  gl.uniform4f(U.rahmen, R[0], R[1], R[2], R[3]); gl.uniform1f(U.rm, K.rm || 0); gl.uniform1f(U.sl, K.sl || 0);
   gl.drawArrays(gl.TRIANGLE_STRIP, 0, 4);
 }
 if ("IntersectionObserver" in window) {

diff --git a/tools/gamma/kunst_linien.py b/tools/gamma/kunst_linien.py
@@ -74,8 +74,11 @@ def bearbeiten(bild):
     gelb = np.clip(1 - np.abs(hue - 40) / 28, 0, 1) * np.clip(1 - (s - .45) / .3, 0, 1)
     Y = a @ np.array([.299, .587, .114], np.float32)
     a = Y[..., None] + (a - Y[..., None]) * (1 - .14 * gelb)[..., None]
-    # Wärmer (Christian, 30. Oktober 2026): Rot und etwas Grün hinauf, Blau hinunter, also golden statt rosa; die Helligkeit bleibt
-    w = a * np.array([1.04, 1.015, .89], np.float32); a = w * (Y / np.maximum(w @ np.array([.299, .587, .114], np.float32), 1e-4))[..., None]
+    # Wärmer und satter (Christian, 30. Oktober 2026, zweimal gewünscht): Rot hinauf, Blau hinunter, also warm wie Abendlicht statt grünlich;
+    # dann die Farben kräftiger, kräftige etwas weniger als blasse; die Helligkeit bleibt
+    w = a * np.array([1.09, 1., .85], np.float32); a = w * (Y / np.maximum(w @ np.array([.299, .587, .114], np.float32), 1e-4))[..., None]
+    mx, mn = a.max(2), a.min(2); s = (mx - mn) / (mx + 1e-4)
+    a = Y[..., None] + (a - Y[..., None]) * (1 + .22 * (1 - s))[..., None]
     return np.clip(a, 0, 1)
 
 name = sys.argv[2] if len(sys.argv) > 2 else "kunst"
